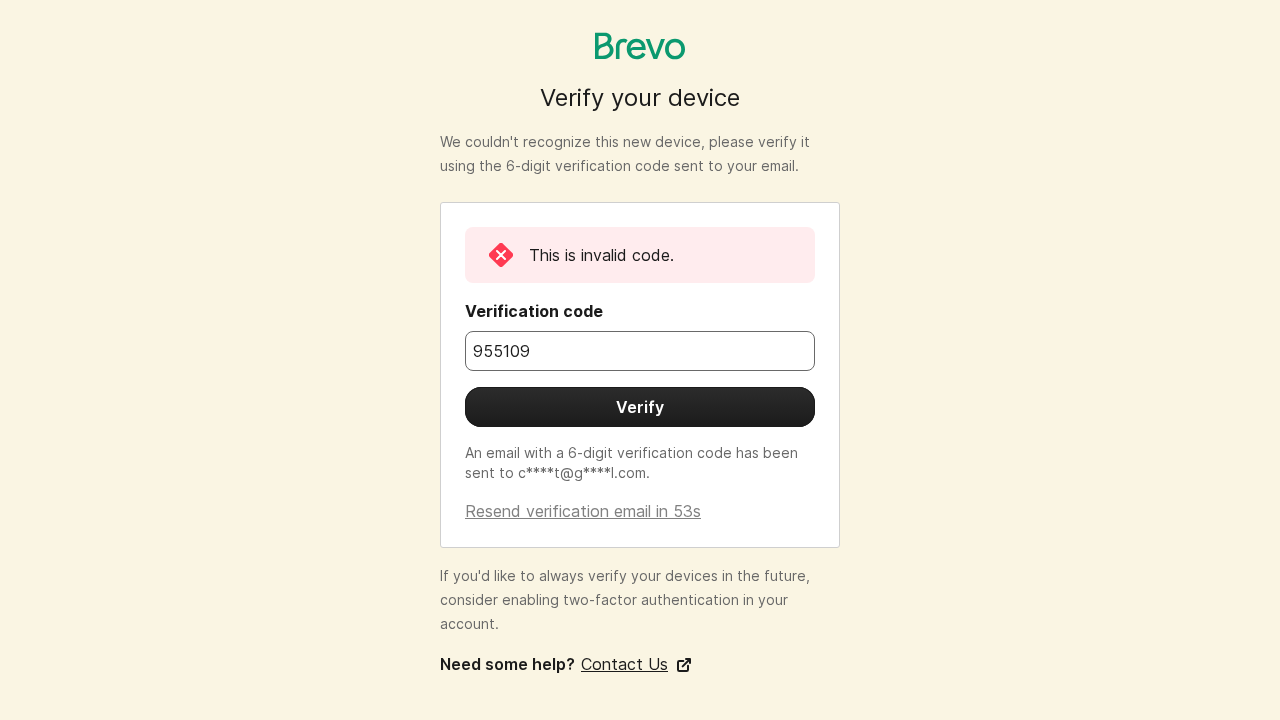
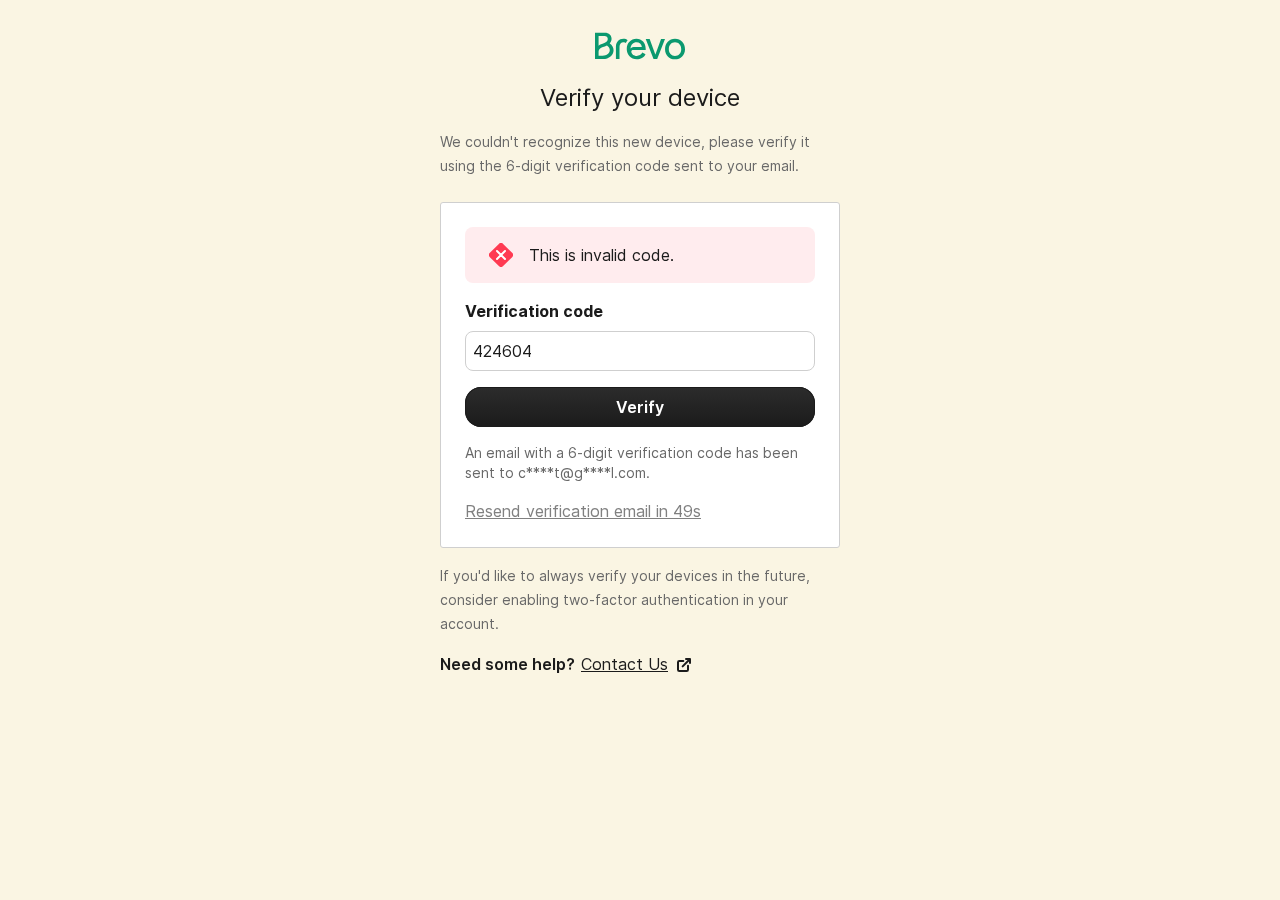
7358479c-02dd-4dbf-b51b-9ba026d18af9

diff --git a/brevo-new-code.js b/brevo-new-code.js
@@ -1,0 +1,91 @@
+const { chromium } = require('playwright');
+
+async function main() {
+  const code = '424604';
+  console.log('🚀 Using fresh 2FA code:', code);
+  
+  const browser = await chromium.launch({
+    headless: true,
+    args: ['--no-sandbox', '--disable-setuid-sandbox', '--disable-dev-shm-usage', '--disable-gpu']
+  });
+  
+  const context = await browser.newContext({
+    viewport: { width: 1280, height: 900 }
+  });
+  const page = await context.newPage();
+  
+  try {
+    // Navigate to login
+    console.log('📍 Opening Brevo...');
+    await page.goto('https://app.brevo.com/', { waitUntil: 'domcontentloaded' });
+    await page.waitForTimeout(3000);
+    
+    // Accept cookies
+    const acceptBtn = await page.$('button:has-text("Accept")');
+    if (acceptBtn) {
+      await acceptBtn.click();
+      await page.waitForTimeout(1000);
+    }
+    
+    // Fill login
+    console.log('📝 Filling credentials...');
+    await page.fill('input[name="email"]', '[email redacted]');
+    await page.fill('input[type="password"]', '@@taj921988@@');
+    
+    // Click login
+    console.log('🖱️ Clicking Log In...');
+    await page.click('button:has-text("Log In")');
+    await page.waitForTimeout(5000);
+    
+    console.log('📍 URL:', page.url());
+    
+    // Enter 2FA code
+    console.log('🔐 Entering code:', code);
+    await page.fill('input[name="verification_code"]', code);
+    await page.waitForTimeout(1000);
+    
+    await page.screenshot({ path: '/home/z/my-project/brevo-code-entered.png' });
+    
+    // Click verify
+    const verifyBtn = await page.$('button:has-text("Verify")');
+    if (verifyBtn) {
+      console.log('🖱️ Clicking Verify...');
+      await verifyBtn.click();
+    } else {
+      console.log('🖱️ Pressing Enter...');
+      await page.keyboard.press('Enter');
+    }
+    
+    await page.waitForTimeout(8000);
+    
+    console.log('📍 After verify URL:', page.url());
+    await page.screenshot({ path: '/home/z/my-project/brevo-after-verify.png' });
+    
+    // Check result
+    const pageText = await page.textContent('body');
+    if (pageText.includes('invalid')) {
+      console.log('❌ Invalid code message detected');
+    } else if (!page.url().includes('2fa')) {
+      console.log('✅ Login successful!');
+    }
+    
+    // Navigate to IP settings
+    console.log('📍 Going to IP settings...');
+    await page.goto('https://app.brevo.com/settings/security/authorised-ips', { timeout: 30000 });
+    await page.waitForTimeout(5000);
+    
+    console.log('📍 IP URL:', page.url());
+    await page.screenshot({ path: '/home/z/my-project/brevo-ip-settings-final.png' });
+    
+    // Get page title
+    console.log('📄 Title:', await page.title());
+    
+  } catch (error) {
+    console.error('❌ Error:', error.message);
+    await page.screenshot({ path: '/home/z/my-project/brevo-error-new.png' });
+  }
+  
+  await browser.close();
+}
+
+main();